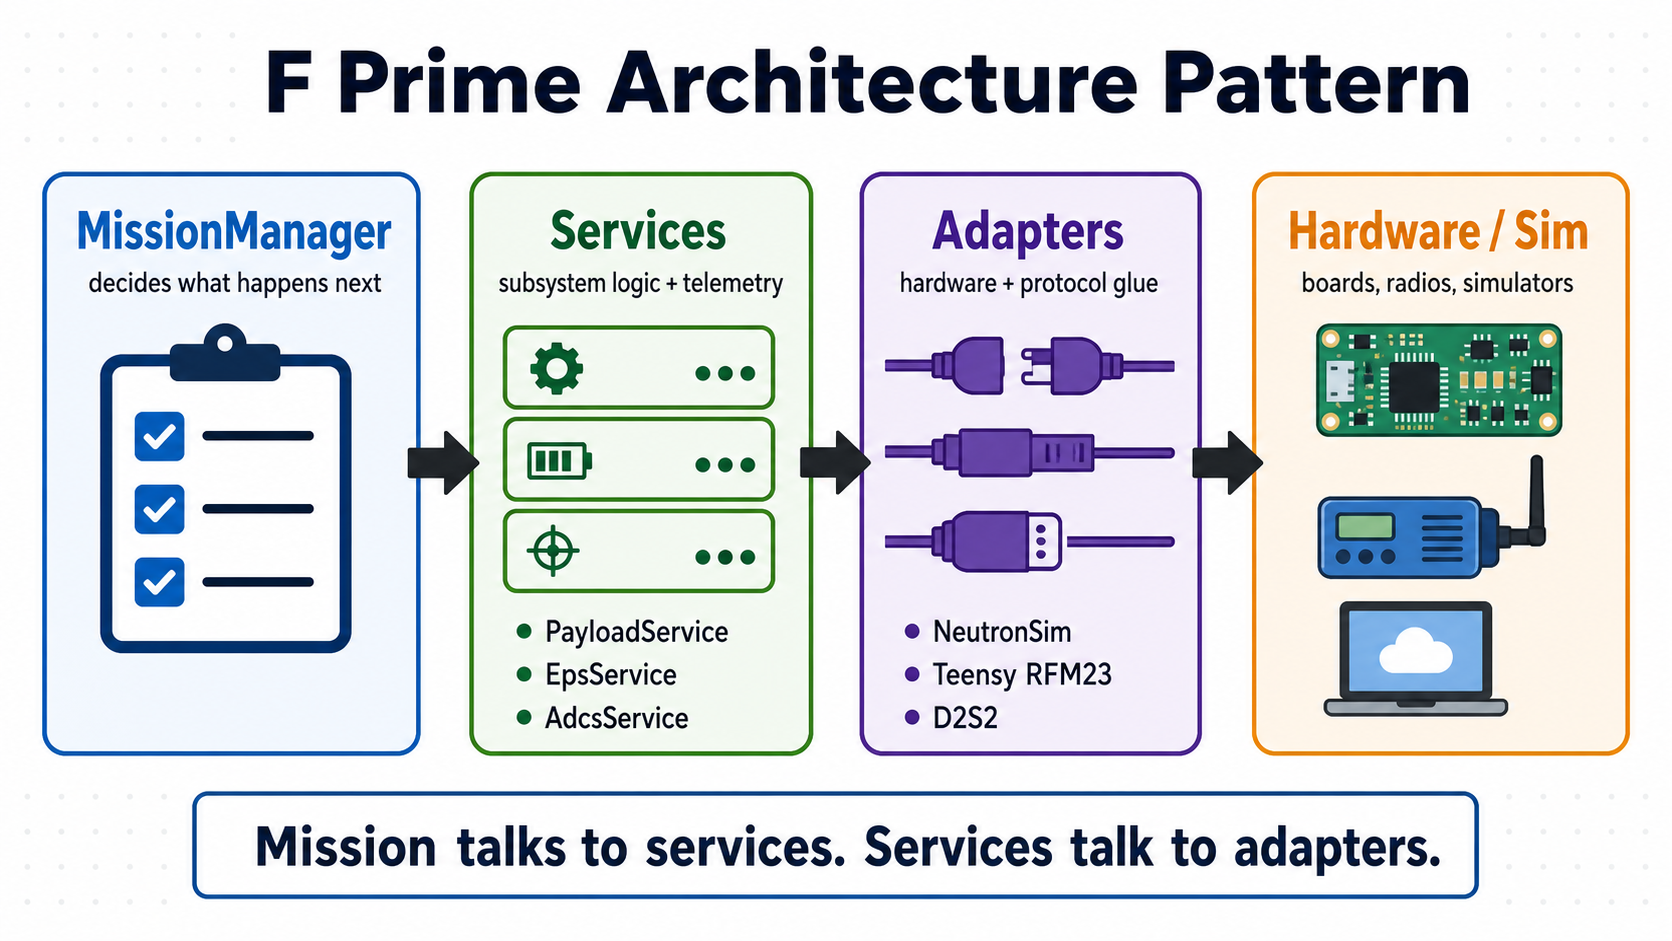
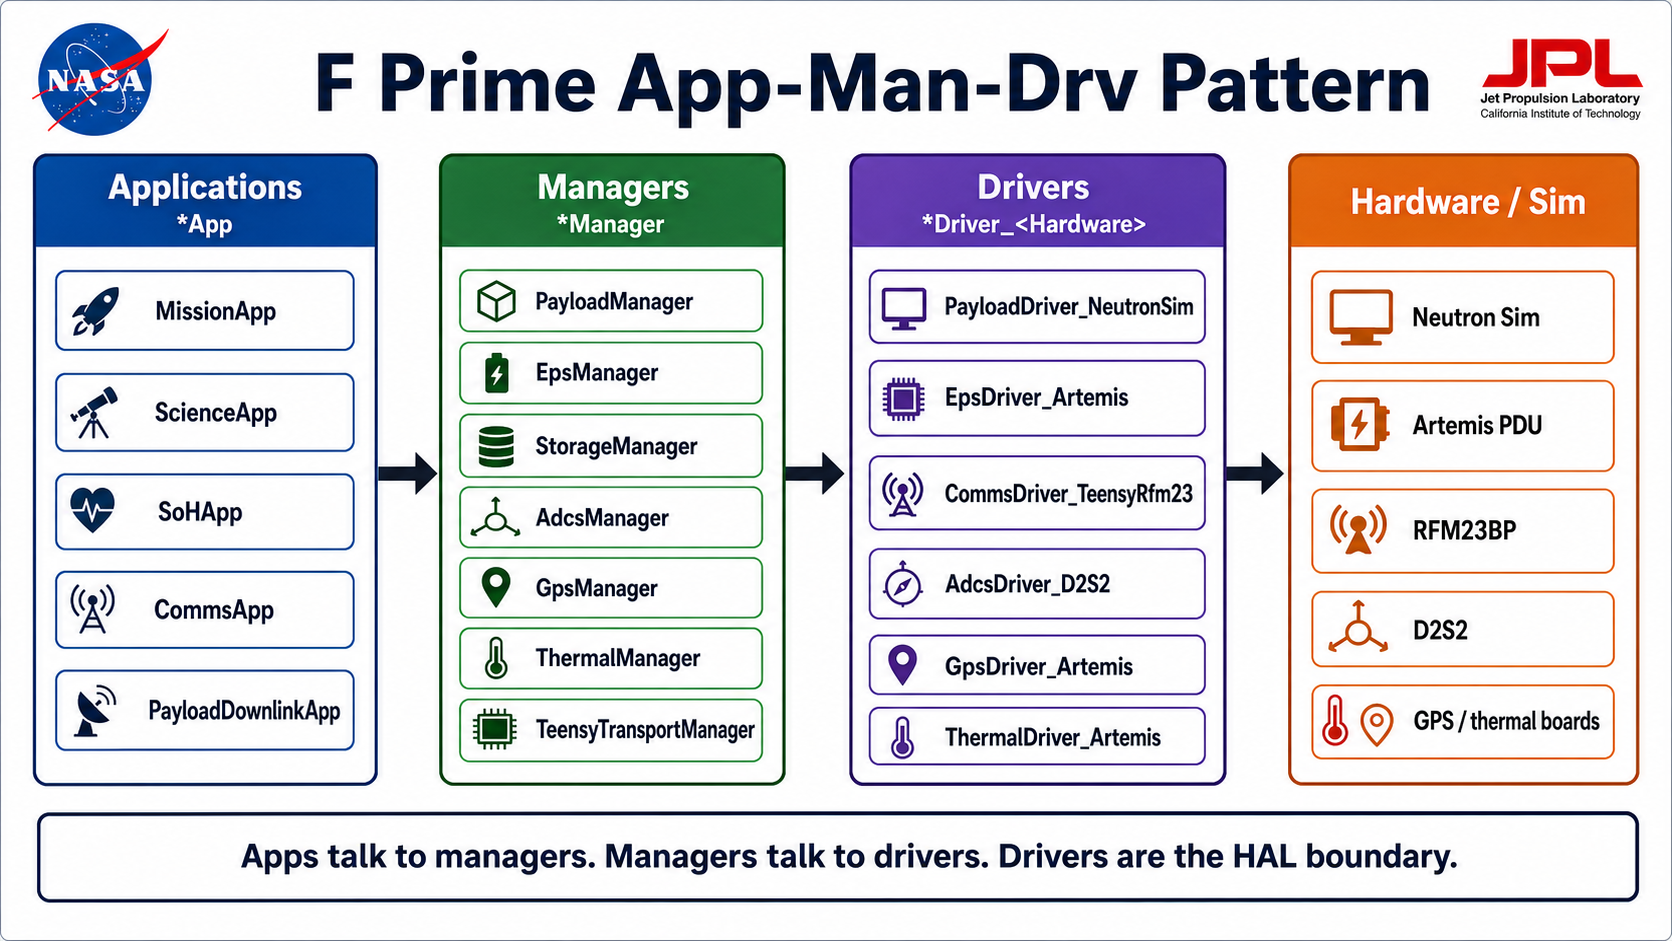
cleanup docs references to old HAL nomenclature to correct FPRIME nomenclature

diff --git a/docs/agents_notes.md b/docs/agents_notes.md
@@ -46,15 +46,18 @@ The current top-level target is the shortened FlatSat FSR end-to-end demo shown 
 - MVP custom components in deployment:
   - `Components/LinkCfg`
   - `Components/UartChannelMux`
-  - `Components/PayloadDownlinkManager`
-  - `Components/TeensyTransportService`
-  - `Components/MissionManager`
-  - `Components/PayloadService`
-  - `Components/PayloadAdapter_NeutronSim`
-  - `Components/ThermalService`
-  - `Components/EpsService`
-  - `Components/EpsAdapter_Artemis`
-  - `Components/CommsAdapter_TeensyRfm23`
+  - `Components/PayloadDownlinkApp`
+  - `Components/TeensyTransportManager`
+  - `Components/MissionApp`
+  - `Components/ScienceApp`
+  - `Components/SoHApp`
+  - `Components/CommsApp`
+  - `Components/PayloadManager`
+  - `Components/PayloadDriver_NeutronSim`
+  - `Components/ThermalManager`
+  - `Components/EpsManager`
+  - `Components/EpsDriver_Artemis`
+  - `Components/CommsDriver_TeensyRfm23`
 - Build status:
   - `fprime-util generate -f` passes
   - `fprime-util build` passes
@@ -128,10 +131,10 @@ The current top-level target is the shortened FlatSat FSR end-to-end demo shown 
 - Confirmed smoke evidence:
   - Pi service runs `/home/pi/artemis/current/ArtemisRpiTeensyDeployment -d /dev/serial0`
   - `fprime-gds` over ground channel 0 can command the Pi through RF
-  - `missionManager.PING` dispatches, logs `MissionManager pong`, and completes
+  - `missionApp.PING` dispatches, logs `MissionApp pong`, and completes
   - retried full-flow commands can reach the Pi over the lossy RF path
   - Pi-side demo flow can produce and store a simulated science payload
-  - Pi-side `PayloadDownlinkManager` can report `PayloadDownlinkComplete` and
+  - Pi-side `PayloadDownlinkApp` can report `PayloadDownlinkComplete` and
     `DownlinkFinished` for the staged payload
   - `payload_receiver.py` reconstructs channel-1 RF payload files on the laptop
 - RF looks significantly healthier than the earlier wedged state, but it is
@@ -333,18 +336,18 @@ The current top-level target is the shortened FlatSat FSR end-to-end demo shown 
   - `2 queues * 32 entries * (220-byte payload + 2-byte length) ~= 14.2 KB`
 - Teensy 4.1 remains within RAM headroom with this profile (validated by successful builds), but do not increase queue depth blindly without re-checking RAM report.
 
-## Adapter MVP Update (2026-04-15)
+## Driver MVP Update (2026-04-15)
 
 ### What changed
 
-- `GpsAdapter_Artemis` is no longer a static `+400` key offset stub.
+- `GpsDriver_Artemis` is no longer a static `+400` key offset stub.
   - It now models a deterministic GPS fix state machine and emits:
     - `FixState` (`0=no-fix`, `1=acquiring`, `2=2D`, `3=3D`)
     - `SatellitesTracked`
     - `FixQualityScore`
     - `RequestCount`
-  - `statusOut` now reports normalized fix-state keys (`0..3`), so `GpsService.GpsFixState` is chart-friendly.
-- `CommsAdapter_TeensyRfm23` is no longer a static `+500` key offset stub.
+  - `statusOut` now reports normalized fix-state keys (`0..3`), so `GpsManager.GpsFixState` is chart-friendly.
+- `CommsDriver_TeensyRfm23` is no longer a static `+500` key offset stub.
   - It now models deterministic RFM23 link behavior and emits:
     - `LinkState` (`0=down`, `1=acquiring`, `2=locked`, `3=degraded`)
     - `RssiDbm`
@@ -353,8 +356,8 @@ The current top-level target is the shortened FlatSat FSR end-to-end demo shown 
     - `RfTxDrops`
     - `RequestCount`
   - Output port behavior is now split intentionally:
-    - `statusOut[0]` -> normalized link state for `CommsManager`
-    - `statusOut[1]` -> `RfRxPackets` snapshot for `TeensyTransportService` downlink counter visibility
+    - `statusOut[0]` -> normalized link state for `CommsApp`
+    - `statusOut[1]` -> `RfRxPackets` snapshot for `TeensyTransportManager` downlink counter visibility
 
 ### Why this was needed
 
@@ -364,24 +367,24 @@ The current top-level target is the shortened FlatSat FSR end-to-end demo shown 
 ### Demo-visible channels/events to watch
 
 - GPS:
-  - `ArtemisRpiTeensyDeployment.gpsAdapterArtemis.FixState`
-  - `ArtemisRpiTeensyDeployment.gpsAdapterArtemis.SatellitesTracked`
-  - `ArtemisRpiTeensyDeployment.gpsAdapterArtemis.FixQualityScore`
-  - `ArtemisRpiTeensyDeployment.gpsService.GpsFixState`
-  - Event: `ArtemisRpiTeensyDeployment.gpsAdapterArtemis.FixStateChanged`
+  - `ArtemisRpiTeensyDeployment.gpsDriverArtemis.FixState`
+  - `ArtemisRpiTeensyDeployment.gpsDriverArtemis.SatellitesTracked`
+  - `ArtemisRpiTeensyDeployment.gpsDriverArtemis.FixQualityScore`
+  - `ArtemisRpiTeensyDeployment.gpsManager.GpsFixState`
+  - Event: `ArtemisRpiTeensyDeployment.gpsDriverArtemis.FixStateChanged`
 - Comms:
-  - `ArtemisRpiTeensyDeployment.commsAdapterTeensyRfm23.LinkState`
-  - `ArtemisRpiTeensyDeployment.commsAdapterTeensyRfm23.RssiDbm`
-  - `ArtemisRpiTeensyDeployment.commsAdapterTeensyRfm23.RfRxPackets`
-  - `ArtemisRpiTeensyDeployment.commsManager.LinkState`
-  - `ArtemisRpiTeensyDeployment.teensyTransportService.DownlinkFrames`
-  - Event: `ArtemisRpiTeensyDeployment.commsAdapterTeensyRfm23.LinkStateChanged`
+  - `ArtemisRpiTeensyDeployment.commsDriverTeensyRfm23.LinkState`
+  - `ArtemisRpiTeensyDeployment.commsDriverTeensyRfm23.RssiDbm`
+  - `ArtemisRpiTeensyDeployment.commsDriverTeensyRfm23.RfRxPackets`
+  - `ArtemisRpiTeensyDeployment.commsApp.LinkState`
+  - `ArtemisRpiTeensyDeployment.teensyTransportManager.DownlinkFrames`
+  - Event: `ArtemisRpiTeensyDeployment.commsDriverTeensyRfm23.LinkStateChanged`
 
 ### Remaining gap (important)
 
-- These two adapters are now mission-meaningful but still model-driven.
+- These two drivers are now mission-meaningful but still model-driven.
 - They are not yet parsing live hardware status lines (for example Teensy `#LINK_STATUS` response fields or raw GPS sentence/fix data).
-- Full hardware-backed adapter ingestion remains a follow-on item after the MVP demo chain is stable.
+- Full hardware-backed driver ingestion remains a follow-on item after the MVP demo chain is stable.
 
 ## Architecture Decision (2026-02-26)
 
@@ -433,8 +436,8 @@ The current top-level target is the shortened FlatSat FSR end-to-end demo shown 
 - Design rule:
   - Keep channel 2 bounded request/response traffic only.
   - Do not send channel 2 over RF.
-  - Do not let mission components know about UART/RF framing; keep it behind adapters and `UartChannelMux`.
-  - If future hardware adds a real sideband bus, it can replace channel 2 behind the EPS/PDU adapter without changing `EpsService`.
+  - Do not let mission components know about UART/RF framing; keep it behind drivers and `UartChannelMux`.
+  - If future hardware adds a real sideband bus, it can replace channel 2 behind `EpsDriver_Artemis` without changing `EpsManager`.
 
 ## Future Subsystem Submodule Plan (2026-06-15)
 
@@ -470,10 +473,10 @@ The current top-level target is the shortened FlatSat FSR end-to-end demo shown 
 - 2026-06-18: `./tools/run_neutron2_local_demo.sh --gui-port 5070 --viewer-port 8070 --delay 3 --capture-seconds 3 --exit-after-sequence --skip-build`
   passed with the channelized local emulator.
 - Verified runtime events included:
-  - `PayloadAdapter_NeutronSim.CaptureComplete`
-  - `StorageService.ScienceStored`
-  - `PayloadDownlinkManager.PayloadDownlinkComplete`
-  - `CommsManager.DownlinkFinished`
+  - `PayloadDriver_NeutronSim.CaptureComplete`
+  - `StorageManager.ScienceStored`
+  - `PayloadDownlinkApp.PayloadDownlinkComplete`
+  - `CommsApp.DownlinkFinished`
 - The local emulator observed channel 1 payload bytes and kept them off the GDS channel 0 stream.
 - `run_neutron2_local_demo.sh` always starts GDS and the Neutron 2 payload viewer, then opens/refocuses the viewer after verified downlink completion.
 - 2026-06-23 HIL proved the shortened demo story over the real RPi UART,
@@ -519,8 +522,8 @@ The current top-level target is the shortened FlatSat FSR end-to-end demo shown 
 2. HIL-test channel 2 against a real PDU through satellite Teensy `Serial1`.
 3. Reduce RF/GDS APID sequence-count warnings without regressing the payload retry path.
 4. Keep rehearsing the neutron simulator product path through the selected HIL downlink/review path:
-   - `PayloadAdapter_NeutronSim` stages the latest capture for downlink.
-   - `REQUEST_SCIENCE_DOWNLINK` starts the channel 1 `PayloadDownlinkManager` transfer.
+   - `PayloadDriver_NeutronSim` stages the latest capture for downlink.
+   - `REQUEST_SCIENCE_DOWNLINK` starts the channel 1 `PayloadDownlinkApp` transfer.
    - Use `tools/payload_receiver.py` on the ground channel 1 serial endpoint for HIL payload reconstruction.
 5. Keep `fprime-gds` as the live MVP demo ground interface and treat `Yamcs` as the post-MVP target presentation/analysis stack.
 6. Add minimal segment ACK/retry for RF relay reliability after the channelized CCSDS path is stable.
@@ -911,16 +914,16 @@ section:
   - `ArtemisTeensy_N2_Baremetal/tools/arduino-cli/build.sh` passed
   - live RF smoke passed with token `4320`
 
-## EPS/PDU adapter notes
+## EPS/PDU driver notes
 
-- F Prime now exposes the mission-facing EPS/PDU path through `EpsService` and `EpsAdapter_Artemis`.
+- F Prime now exposes the mission-facing EPS/PDU path through `EpsManager` and `EpsDriver_Artemis`.
 - The EPS/PDU boundary is intentionally pragmatic for MVP because the new PDU
   is planned for F Prime-driven testing. Keep generic mission-facing commands
-  in `EpsService`, keep PDU v2 protocol details in `EpsAdapter_Artemis`, and
-  refactor/cull the service surface later if the proven hardware contract
+  in `EpsManager`, keep PDU v2 protocol details in `EpsDriver_Artemis`, and
+  refactor/cull the manager surface later if the proven hardware contract
   demands a sharper split.
-- The adapter uses the PDU v2 framed UART protocol from `external/artemis-pdu/src/pdu_protocol_v2.h`.
-- The adapter no longer opens a separate Pi serial device for the PDU.
+- The driver uses the PDU v2 framed UART protocol from `external/artemis-pdu/src/pdu_protocol_v2.h`.
+- The driver no longer opens a separate Pi serial device for the PDU.
 - EPS/PDU requests are wrapped as channel 2 local RPC packets over the existing Pi <-> satellite Teensy UART.
 - Satellite `PduProxy` writes the inner PDU v2 frame to `Serial1` at 9600 baud and returns the PDU response over channel 2.
 - Channel 2 local status values are `0=OK`, `1=BAD_REQUEST`, `2=BUSY`, `3=TIMEOUT`, `4=TARGET_ERROR`.
@@ -936,13 +939,13 @@ section:
   - `SET_CHARGER_STATE` with `confirm=1`
 - Missing confirmation or unsafe/out-of-range PDU command arguments return
   `VALIDATION_ERROR` in GDS command history and emit `EpsCommandRejected`.
-- Burn-wire and torque-coil commands are intentionally not exposed through `EpsService` yet; add those only with a dedicated HIL/runbook procedure.
+- Burn-wire and torque-coil commands are intentionally not exposed through `EpsManager` yet; add those only with a dedicated HIL/runbook procedure.
 
-## Service/Adapter Cleanup — Open Follow-ups (2026-06-25)
+## Service/Adapter Cleanup — Open Follow-ups (2026-06-25, historical vocabulary)
 
-The service/adapter architecture cleanup landed: de-leaked `EpsService`,
-`ScienceProductDescriptor` threaded end to end, active/async payload adapter,
-`MissionManager`-validated mode transitions with a unit test, and
+The service/adapter architecture cleanup landed before the App-Man-Drv rename:
+de-leaked `EpsService`, `ScienceProductDescriptor` threaded end to end,
+active/async payload adapter, `MissionManager`-validated mode transitions with a unit test, and
 single-source transport constants (`config/transport_constants.json` +
 `tools/generate_transport_constants.py` + `tools/check_transport_constants.py`).
 Durable rules now live in `docs/STUDENT_COMPONENT_STARTERS.md`; the dated review
@@ -959,20 +962,19 @@ Still open (not demo-blocking):
 ## Architecture ↔ F´ App-Man-Drv Cross-Reference (2026-06-29)
 
 - `docs/SYSTEM_ARCHITECTURE.md` now states explicitly that our
-  Manager → Service → Adapter "HAL" **is** F´'s built-in
+  Application → Manager → Driver HAL **is** F´'s built-in
   Application-Manager-Driver (App-Man-Drv) pattern, not a bespoke invention.
   See the new "This is F´'s Application-Manager-Driver pattern" subsection
   (mapping table + vocabulary warning) and the "Implementation notes"
-  subsection under the Manager → Service → Adapter section.
-- Term mapping: our **Manager** = F´ **Application**, our **Service** = F´
-  **Manager** (device manager), our **Adapter** = F´ **Driver**. The word
-  "Manager" points at opposite ends of the stack in the two vocabularies —
-  watch for this when reading upstream F´ tutorials / `fprime-sensors`.
+  subsection under the Application → Manager → Driver section.
+- Current active naming uses F´ vocabulary directly: `*App` for applications,
+  `*Manager` for subsystem contracts, and `*Driver_<Hardware>` for hardware or
+  simulator glue.
 - Implementation guidance added: use stock `Drv.LinuxI2cDriver` /
   `LinuxSpiDriver` / `LinuxGpioDriver` for subsystems on the Pi's own bus
-  (our channel-2 Teensy-RPC adapters are bespoke for a hardware reason), and
+  (our channel-2 Teensy-RPC drivers are bespoke for a hardware reason), and
   check `fprime-sensors` for ready-made device managers before writing a new
-  `*Adapter_*`.
+  `*Driver_*`.
 
 ## Demo Hardening Sprint (2026-07-06)
 
@@ -984,8 +986,8 @@ Still open (not demo-blocking):
   collection state.
 - Command-driven mode changes now go through the same validation path as port
   mode updates; command rejection responses stay operator-visible.
-- Race fix landed after adversarial review: state-mutating `ScienceManager`,
-  `MissionManager`, and `CommsManager` inputs are async so cancel/mode/status
+- Race fix landed after adversarial review: state-mutating `ScienceApp`,
+  `MissionApp`, and `CommsApp` inputs are async so cancel/mode/status
   updates are serialized on each active component queue.
 - Throttles are split intentionally: storm-capable warning/event paths remain
   throttled, but human command rejections are unthrottled in GDS command
@@ -993,7 +995,7 @@ Still open (not demo-blocking):
 - Topology de-fork landed: the old demo-only topology fork is removed; local
   emulation and HIL now build/run the same unified topology with
   RF-budget-sensitive periodic loops still off.
-- `ScienceManager.CAPTURE_DURATION_SECONDS` is now a `PrmDb`-backed parameter;
+- `ScienceApp.CAPTURE_DURATION_SECONDS` is now a `PrmDb`-backed parameter;
   `CONFIGURE_CAPTURE_DURATION` remains a volatile runtime override, while
   durable default changes use `PRM_SET` then `PRM_SAVE`.
 - FPP ops pass landed: selected events have throttles, many stable channels use

diff --git a/docs/SYSTEM_ARCHITECTURE.md b/docs/SYSTEM_ARCHITECTURE.md
@@ -327,7 +327,7 @@ Events follow the same downlink path via `CdhCore.events`; ground debug serial p
 
 ### Where the HAL fits in this trace
 
-`PING` is a pure C&DH loop, so it never touches an driver. A *subsystem* command does: e.g. an EPS rail command flows `cmdDisp → epsManager` (the stable contract) `→ epsDriverArtemis` (PDU v2 over channel 2 RPC) `→ uartChannelMux` (channel 2) `→ satellite Teensy → PDU`. Same uplink plumbing; the service and driver tiers are where subsystem-specific behavior lives. Swapping hardware swaps only the driver.
+`PING` is a pure C&DH loop, so it never touches a driver. A *subsystem* command does: e.g. an EPS rail command flows `cmdDisp → epsManager` (the stable contract) `→ epsDriverArtemis` (PDU v2 over channel 2 RPC) `→ uartChannelMux` (channel 2) `→ satellite Teensy → PDU`. Same uplink plumbing; the manager and driver tiers are where subsystem-specific behavior lives. Swapping hardware swaps only the driver.
 
 ## Key Demo Interfaces
 
@@ -414,7 +414,7 @@ Unless the user says otherwise, agents should assume the following:
 
 ## EPS/PDU Boundary Note
 
-For the MVP, the EPS service and Artemis PDU driver boundary is intentionally pragmatic. The new PDU is planned for F Prime-driven testing, so some PDU-shaped diagnostics and rail semantics may appear near the EPS service while the ICD settles.
+For the MVP, the `EpsManager` and `EpsDriver_Artemis` boundary is intentionally pragmatic. The new PDU is planned for F Prime-driven testing, so some PDU-shaped diagnostics and rail semantics may appear near the EPS manager while the ICD settles.
 
 This is acceptable when:
 
@@ -422,7 +422,7 @@ This is acceptable when:
 - `EpsDriver_Artemis` owns the PDU v2 protocol and channel 2 local RPC details
 - HIL notes clearly say when behavior is real PDU response versus local emulation
 
-If the PDU grows into a fuller subsystem contract, refactor the driver/service split then. The MVP priority is an understandable, reproducible EPS path that can exercise the real PDU through F Prime. See the [PDU Protocol ICD](#reference-documents) for the wire format.
+If the PDU grows into a fuller subsystem contract, refactor the manager/driver split then. The MVP priority is an understandable, reproducible EPS path that can exercise the real PDU through F Prime. See the [PDU Protocol ICD](#reference-documents) for the wire format.
 
 ## Reference Documents
 
@@ -451,7 +451,7 @@ In particular, do not:
 
 - confuse Artemis hardware with the full Neutron 2 production architecture
 - assume every subsystem in the architecture already has matching implementation in the repo
-- put hardware/protocol details into managers or services — that belongs in an driver
+- put hardware/protocol details into applications or managers — that belongs in a driver
 - optimize for generic CubeSat completeness when the actual goal is the Neutron 2 demo story on Artemis prototype hardware
 
 Instead, use this rule:

diff --git a/docs/STUDENT_COMPONENT_STARTERS.md b/docs/STUDENT_COMPONENT_STARTERS.md
@@ -1,12 +1,12 @@
 # Student Component Starters
 
-BLUF: service components stay mission-facing and hardware-agnostic. Hardware details belong in drivers.
+BLUF: manager components stay mission-facing and hardware-agnostic. Hardware details belong in drivers.
 
 Target handoff: v1.0 June 30, 2026
 
 ## Architecture Invariant
 
-The service is a hardware-agnostic contract derived from mission needs. Every
+The manager is a hardware-agnostic contract derived from mission needs. Every
 hardware-specific fact lives below it, in exactly one driver.
 
 If this holds, the team develops on simulated or Artemis prototype hardware now
@@ -25,12 +25,12 @@ Related docs:
 Topology rule:
 
 - `Top/topology.fpp` is the single topology for laptop rehearsal and HIL.
-- Keep RF-budget-sensitive periodic service loops disabled unless they are
+- Keep RF-budget-sensitive periodic manager loops disabled unless they are
   needed by the actual demo path.
 
 ## Current Components
 
-| Subsystem | Owners | Service | Driver / hardware layer | Status |
+| Subsystem | Owners | Application / Manager | Driver / hardware layer | Status |
 | --- | --- | --- | --- | --- |
 | Payload | Aris, Piper, Kenoi | `PayloadManager` | `PayloadDriver_NeutronSim` now, real payload driver later | Wired |
 | Mission | Aris, Kenoi | `MissionApp` | None | Wired |
@@ -57,7 +57,7 @@ Topology rule:
 
 - Managers own commands, state, telemetry, events, and CONOP-level behavior, in
   hardware-agnostic terms. Avoid vendor/board/bus/radio/protocol words (`PDU`,
-  `RFM23`, `D2S2`) in service ports or telemetry names.
+  `RFM23`, `D2S2`) in manager ports or telemetry names.
 - Drivers own board protocols, buses, radios, packet formats, timing quirks, and hardware constants.
 - Applications talk to managers, not directly to payload boards, radios, EPS/PDU firmware, or ADCS hardware.
 - One driver per subsystem, wired in the topology. Missing hardware gets a simulator driver in the topology, not a runtime command.
@@ -161,6 +161,6 @@ Current rule:
 - `EpsManager` stays mission-facing and speaks generic EPS/rail commands.
 - `EpsDriver_Artemis` owns PDU v2 protocol mapping, channel 2 local RPC, and
   hardware response interpretation.
-- If the PDU contract grows enough that the service boundary becomes confusing,
-  create a fuller driver or refactor/cull the service surface later. Do not
+- If the PDU contract grows enough that the manager boundary becomes confusing,
+  create a fuller driver or refactor/cull the manager surface later. Do not
   block the MVP on making the boundary perfect today.

diff --git a/docs/FPRIME_GROUND_INTERFACES_PRIMER.md b/docs/FPRIME_GROUND_INTERFACES_PRIMER.md
@@ -54,7 +54,7 @@ Declare with a severity and a printf-style format:
 @ Ping response event
 event Pong(token: U32, count: U32) severity activity low format "MissionApp pong token={} count={}"
 
-@ Invalid service-requested mission mode transition rejected
+@ Invalid app-requested mission mode transition rejected
 event ModeUpdateRejected(requested: Components.MissionMode, current: Components.MissionMode, detail: U32) \
     severity warning low format "Rejected mode update requested={} current={} detail={}"
 ```
@@ -122,7 +122,7 @@ U32 dur = this->paramGet_CaptureDurationSeconds(valid);
 
 Working within the [Application -> Manager -> Driver](SYSTEM_ARCHITECTURE.md#flight-software-architecture-application--manager--driver-hal) model:
 
-- Want the operator to trigger something? → add a **command** to a manager/service.
+- Want the operator to trigger something? → add a **command** to an application or manager.
 - Want the operator to *see* something happened? → add an **event**.
 - Want the operator to *monitor* a value? → add a **telemetry channel**.
 - Want a remembered, ground-settable knob? → add a **parameter**.

diff --git a/docs/NEUTRON2_RF_MVP_DEMO_RUNBOOK.md b/docs/NEUTRON2_RF_MVP_DEMO_RUNBOOK.md
@@ -43,7 +43,7 @@ Not validated:
 ## RF Budget Note
 
 The HIL demo and laptop rehearsal use the same topology. The scheduled science
-path, payload downlink manager, transport service, command/telemetry framework,
+path, payload downlink app, transport manager, command/telemetry framework,
 and EPS driver ticks are active. The higher-volume periodic `sohApp.run`,
 `payloadManager.run`, `storageManager.run`, and `commsApp.run` loops remain
 disabled; use command-triggered SOH/storage/link checks for demo visibility.
@@ -607,7 +607,7 @@ Teensy watchdog boot lines are visible on bench serial logs:
 
 ## Fast Troubleshooting
 
-For a broader layer map across GDS, F Prime services, UART mux, RF, payload
+For a broader layer map across GDS, F Prime applications/managers, UART mux, RF, payload
 receiver, viewer, and EPS/PDU channel 2, see
 `docs/SOFTWARE_DEBUGGING_TROUBLESHOOTING.md`.
 

diff --git a/docs/SOFTWARE_DEBUGGING_TROUBLESHOOTING.md b/docs/SOFTWARE_DEBUGGING_TROUBLESHOOTING.md
@@ -269,8 +269,8 @@ Payload proof is separate:
 
 ### EPS/PDU Commands Fail Or Timeout
 
-EPS/PDU MVP behavior intentionally crosses the EPS service and Artemis PDU
-driver boundary while the new PDU is being tested through F Prime.
+EPS/PDU MVP behavior intentionally crosses the `EpsManager` and
+`EpsDriver_Artemis` boundary while the new PDU is being tested through F Prime.
 
 Debug in this order:
 
